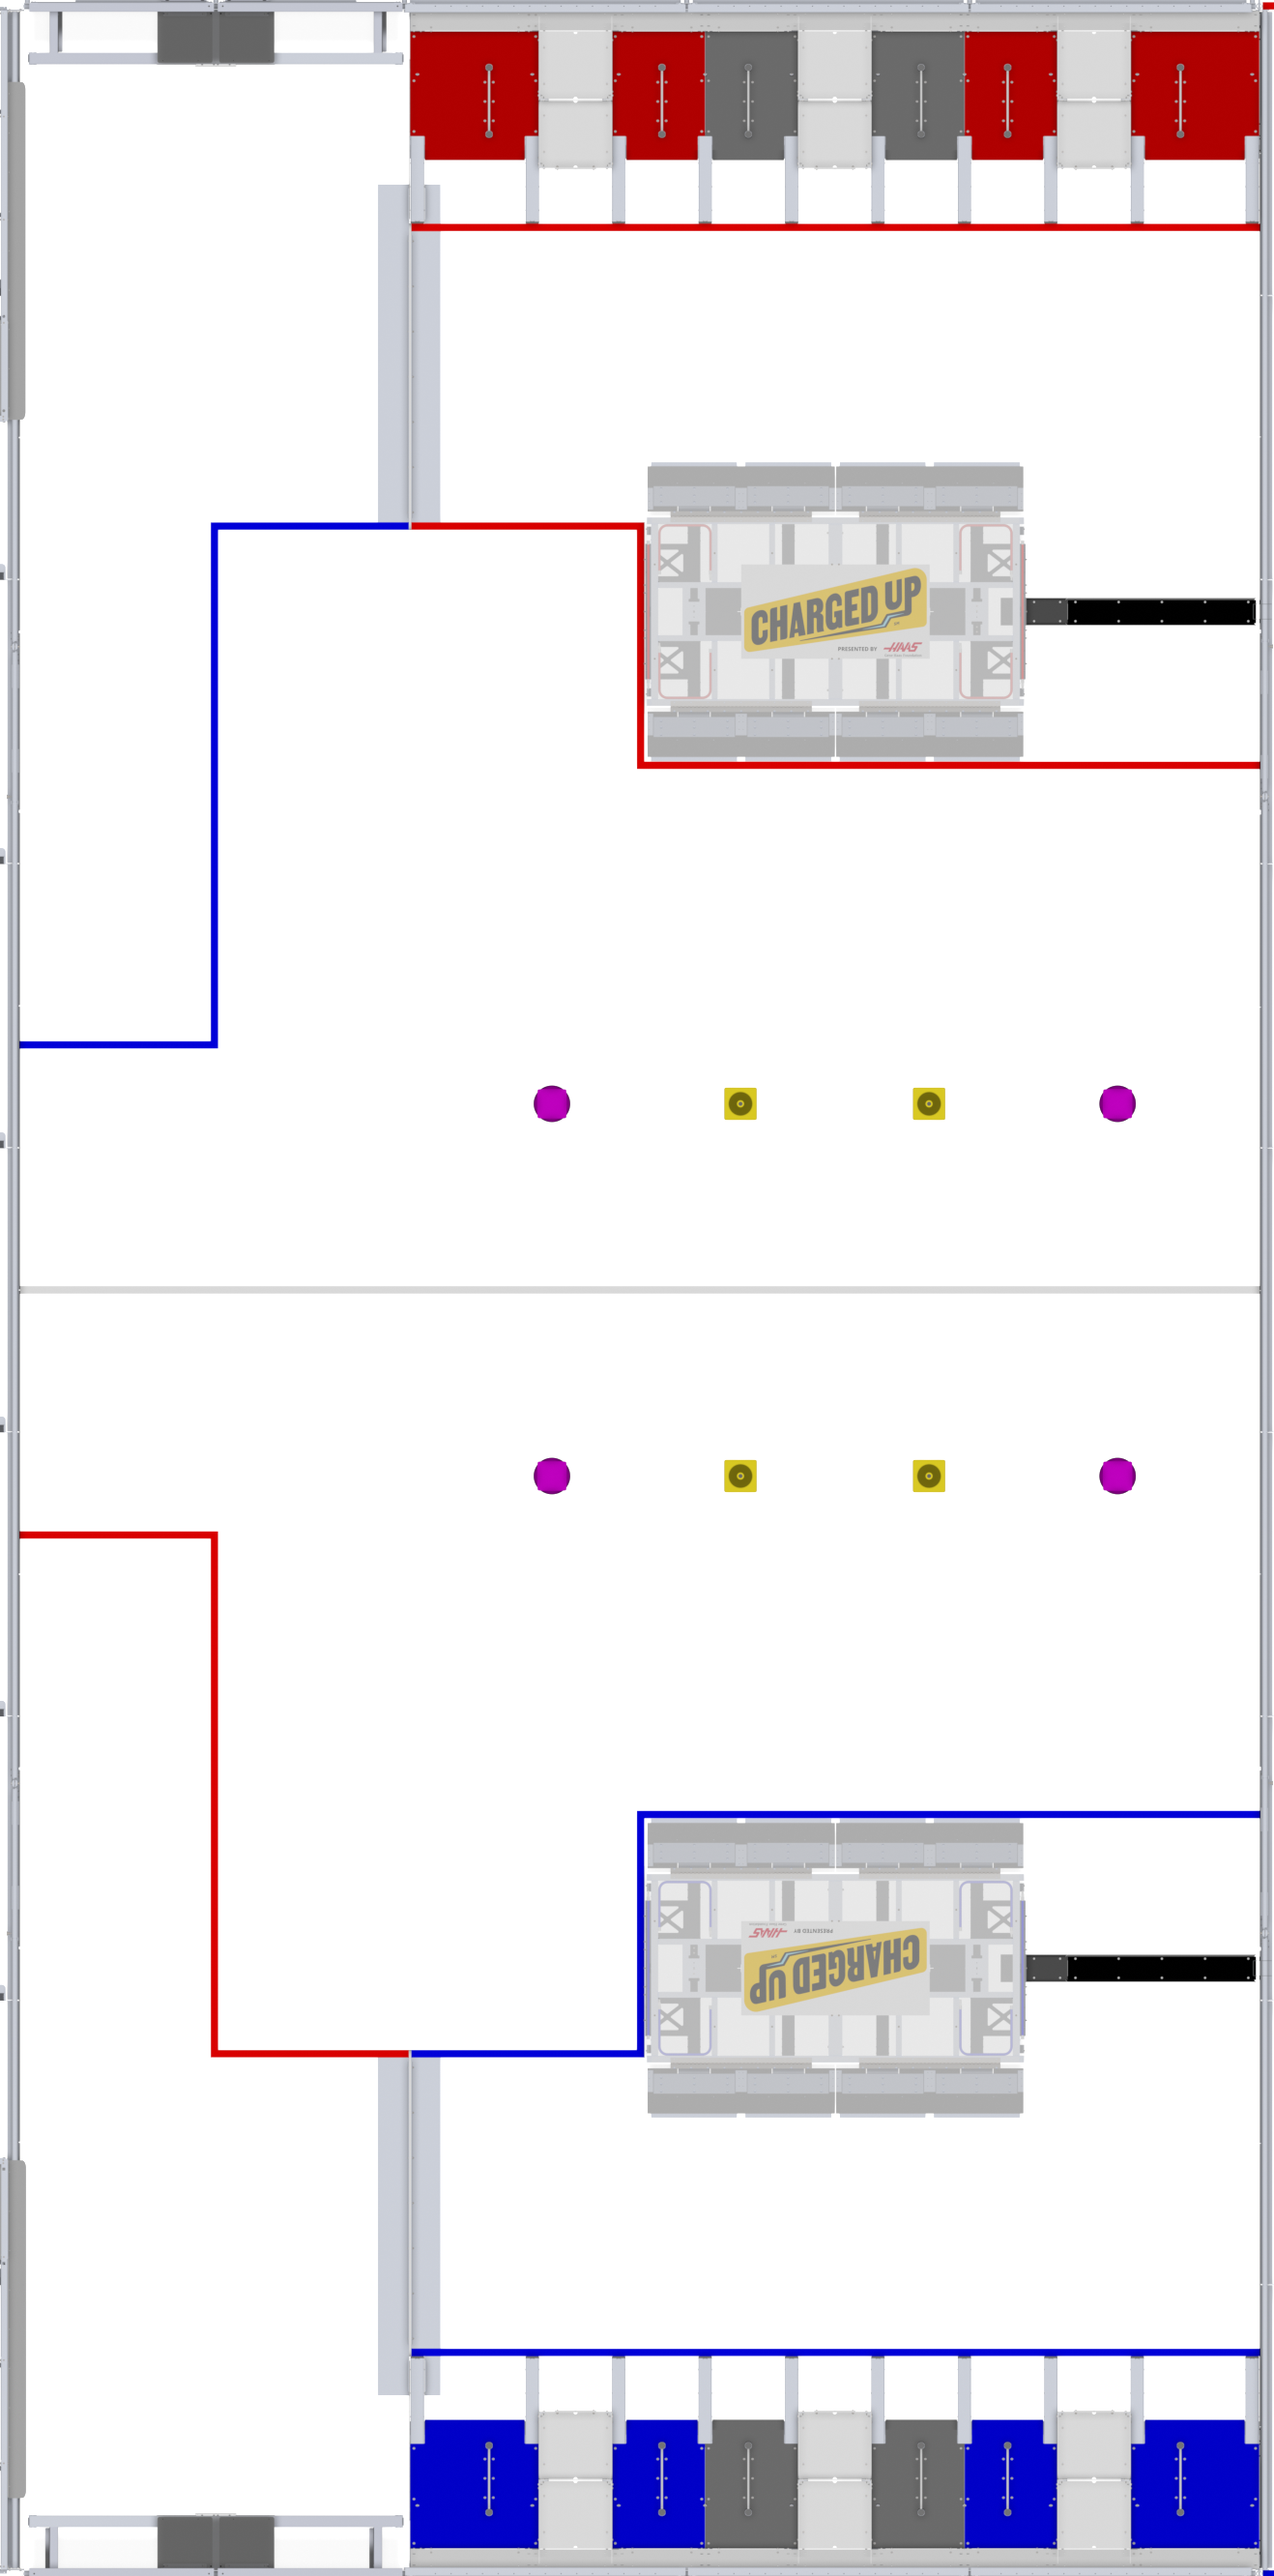
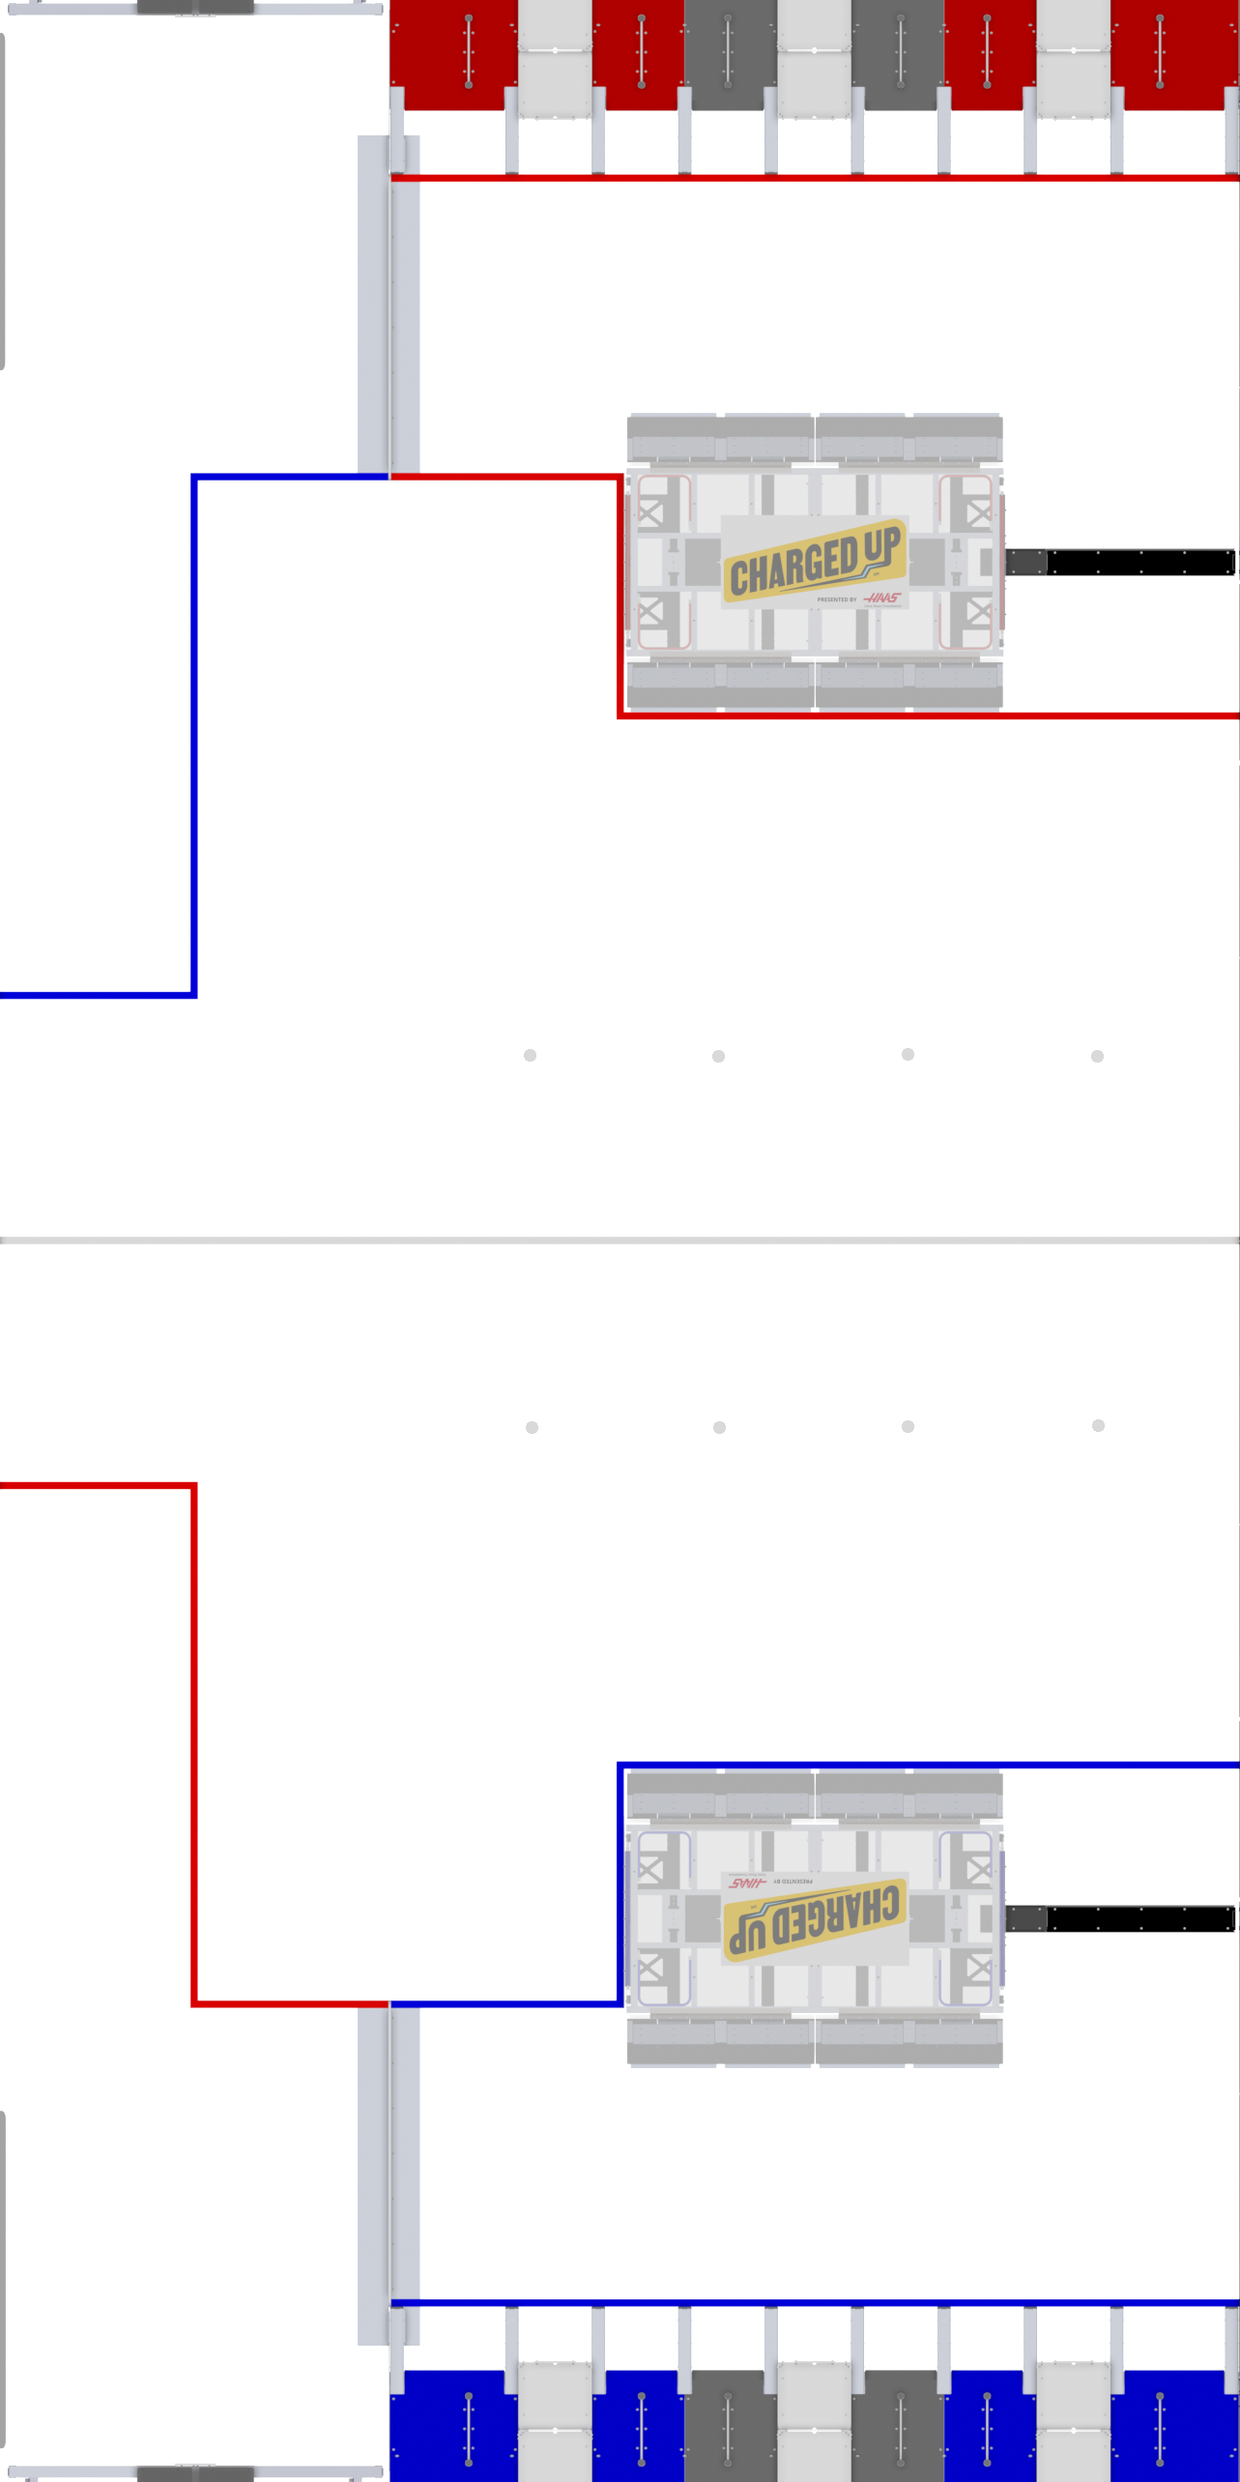
Flippable field image, add stamps

diff --git a/www/planner.js b/www/planner.js
@@ -1,13 +1,19 @@
 "use strict"
 $(document).ready(function() {
-	var field = $('#field')
-	if (typeof eventYear !== 'undefined') field.css("background-image",`url('/${eventYear}/field-whiteboard.png')`)
+	if (typeof eventYear !== 'undefined') $('#fieldBG').css("background-image",`url('/${eventYear}/field-whiteboard.png')`)
 
-	var sketcher = field.sketchable({
+	var sketcher = $("#fieldDraw").sketchable({
 		events: {
 			// We use the "before" event hook to update brush type right before drawing starts.
 			mousedownBefore: function(elem, data, evt){
-				if ($('button.pen.selected').attr('data-type') == 'eraser'){
+				var pen = $('button.pen.selected'),
+				img = pen.find('img')
+				if (img.length){
+					data.options.graphics.fillStyle = '#fff0' // transparent
+					data.options.graphics.strokeStyle = '#fff0'
+					var bounds = $('#fieldDraw')[0].getBoundingClientRect()
+					data.sketch.drawImage(img.attr('src'), evt.clientX - bounds.left, evt.clientY - bounds.top)
+				} else if (pen.attr('data-type') == 'eraser'){
 					// There is a method to set the brush in eraser mode.
 					data.options.graphics.lineWidth = 20
 					data.sketch.eraser()
@@ -15,7 +21,7 @@ $(document).ready(function() {
 					// There is a method to get the default mode (pencil) back.
 					data.options.graphics.lineWidth = 3
 					data.options.graphics.firstPointSize = 3
-					var color = $('button.pen.selected').css('color')
+					var color = pen.css('color')
 					data.options.graphics.fillStyle = color
 					data.options.graphics.strokeStyle = color
 					data.sketch.pencil()
@@ -37,12 +43,16 @@ $(document).ready(function() {
 	$('button.pen').click(function(){
 		$('button.pen').removeClass('selected')
 		$(this).addClass('selected')
-		setIcon()
+		setCursorImage()
 	})
 
 	$('.clear').click(function(evt) {
 		evt.preventDefault()
 		sketcher.sketchable('clear')
+	})
+
+	$('.rotate').click(function(evt) {
+		$('#fieldBG').toggleClass('rotated')
 	})
 
 	$('.undo').click(function(evt) {
@@ -55,11 +65,13 @@ $(document).ready(function() {
 		return false
 	})
 
-	function setIcon() {
-		var cursor = $('button.pen.selected').attr('data-type')
-		sketcher.css('cursor', `url(${cursor}.svg), auto`);
+	function setCursorImage() {
+		var pen = $('button.pen.selected'),
+		img = pen.find('img'),
+		cursor = img.length?img.attr('src'):pen.attr('data-type') + '.svg'
+		sketcher.css('cursor', `url(${cursor}), auto`);
 	}
-	setIcon()
+	setCursorImage()
 
 	function setLocationHash(){
 		var hash = `event=${eventId}`

diff --git a/www/planner.css b/www/planner.css
@@ -1,5 +1,9 @@
 button.selected{background:var(--button-selected-bg-color)}
-#field{border:1px solid var(--main-border-color);margin:0;padding:0;background-size:contain;background-repeat:no-repeat;width:50vh;height:100vh;}
+#field{border:1px solid var(--main-border-color);margin:0;padding:0;position:relative}
+#field,#fieldBG,#fieldDraw{width:50vh;height:100vh}
+#fieldBG,#fieldDraw{position:absolute;top:0;left:0;right:0;bottom:0}
+#fieldBG{background-size:contain;background-repeat:no-repeat}
+#fieldBG.rotated{transform:rotate(180deg)}
 #statsTable input{writing-mode:vertical-rl;text-orientation:upright;background-color:inherit;border:none;display:block;margin:0 auto}
 #statsTable th {padding:0.1em;min-width:1.5em}
 html,body{margin:0;padding:0;text-align:left}
@@ -14,7 +18,8 @@ button.team{width:3em;height:1.5em;margin:0.25em}
 #statsTable img{max-width:40px;max-height:40px;display:block;margin:0 auto;padding:0;border:none;cursor:pointer}
 #statsTable td{text-align:center}
 #statsTable th{max-width:8em}
-#imageLightBox img{object-fit:contain;width:100%;height:100%;}
+#imageLightBox img{object-fit:contain;width:100%;height:100%}
+#stamps img{height:.8em}
 #fullPhoto{object-fit:contain;background:#0000;border:none}
 @media only screen and (max-width: 1150px) and (min-width: 750px){
     .f{display:table;width:100%}

diff --git a/www/planner.html b/www/planner.html
@@ -14,13 +14,18 @@
 </head>
 <body>
 <div class=f>
-  <canvas id=field></canvas>
+  <div id=field><div id=fieldBG></div><canvas id=fieldDraw></canvas></div>
   <div class=rightColumn>
     <div id=drawingControls>
       <button class="pen selected" data-type=pencil style=color:black>⬤</button>
+      <span id=stamps>
+        <button class=pen><img src=/2023/cone-stamp.png></button>
+        <button class=pen><img src=/2023/cube-stamp.png></button>
+      </span>
       <button class=pen data-type=eraser>◍</button>
       <button class=undo>↶</button>
       <button class=clear>✘</button>
+      <button class=rotate>🗘</button>
       <button class=showInstructions>Instructions</button>
     </div>
     <table id=statsTable>
